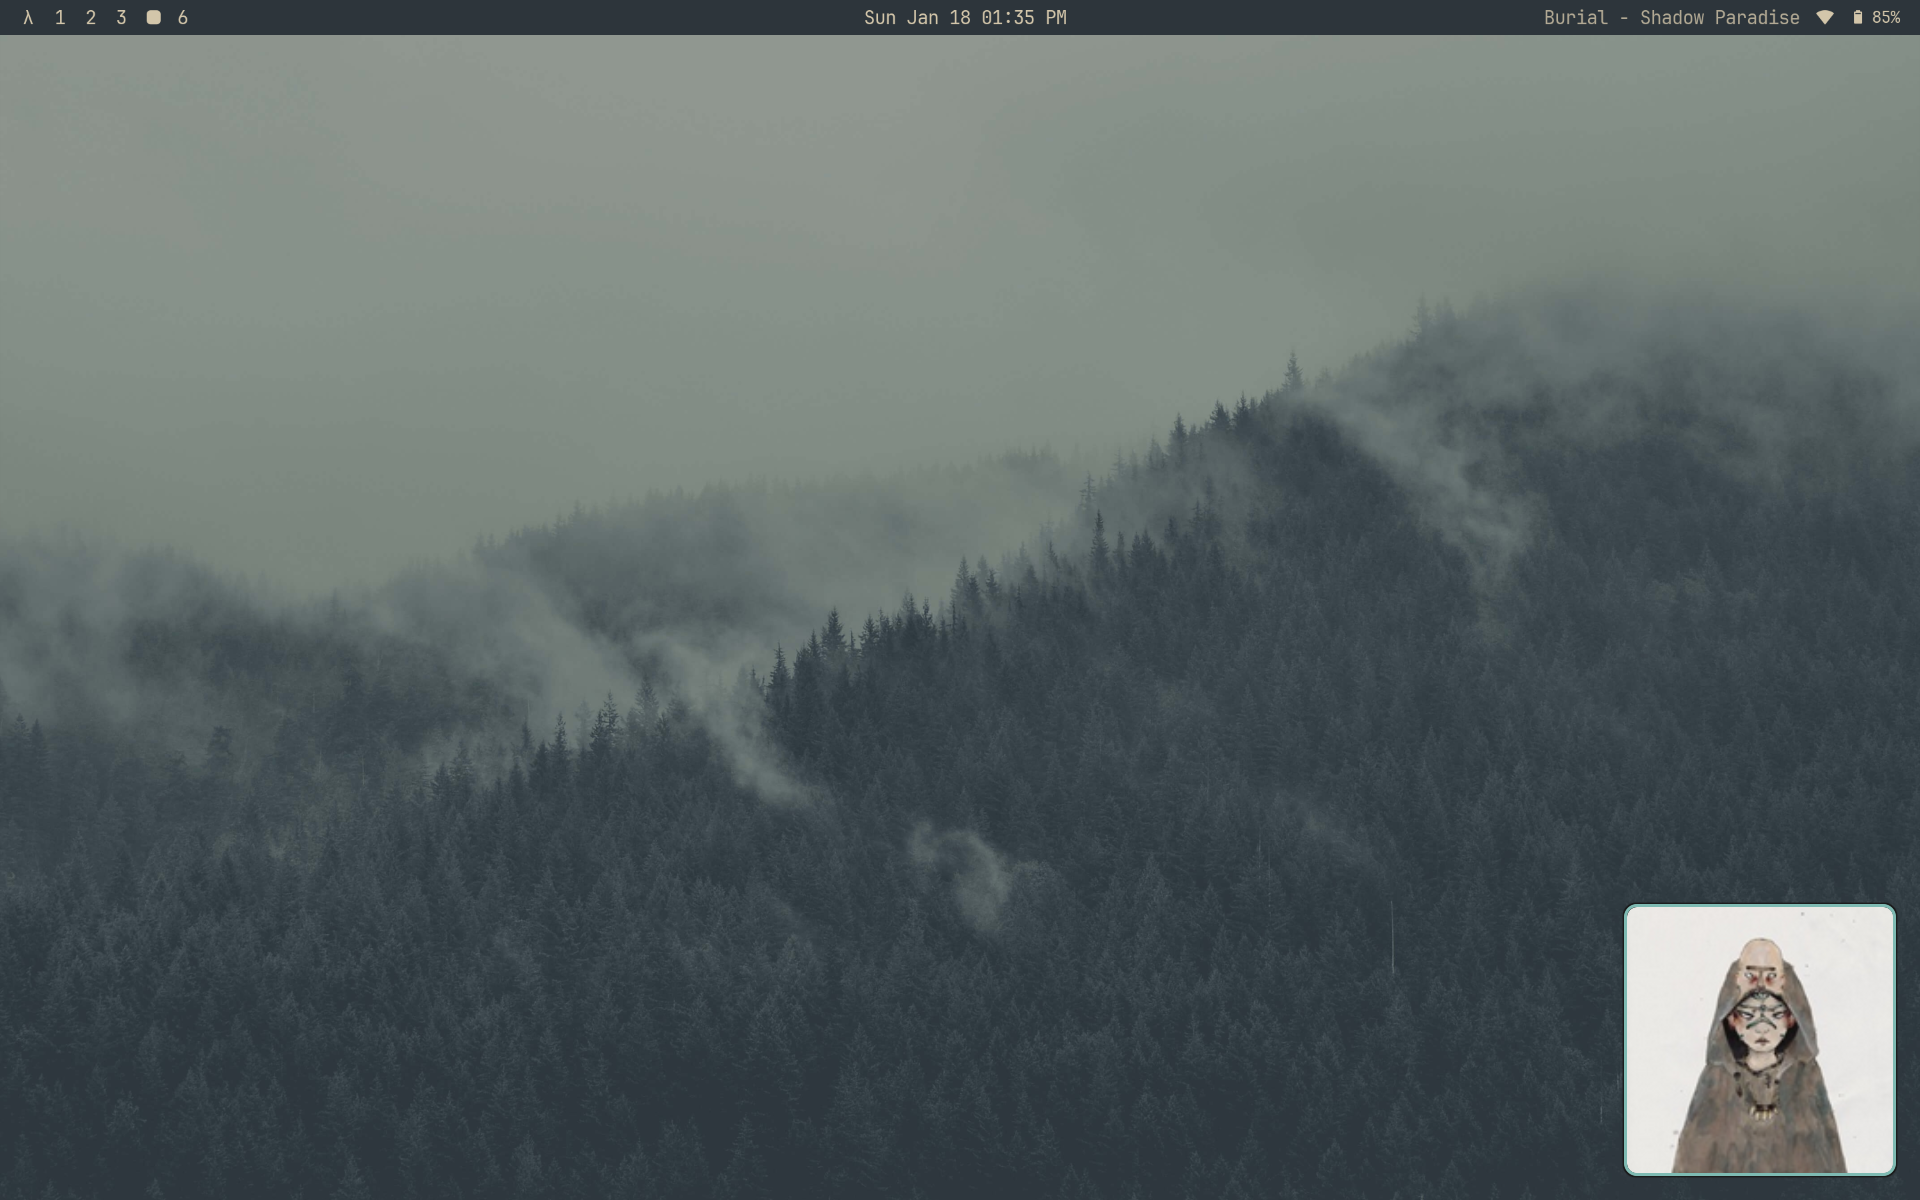
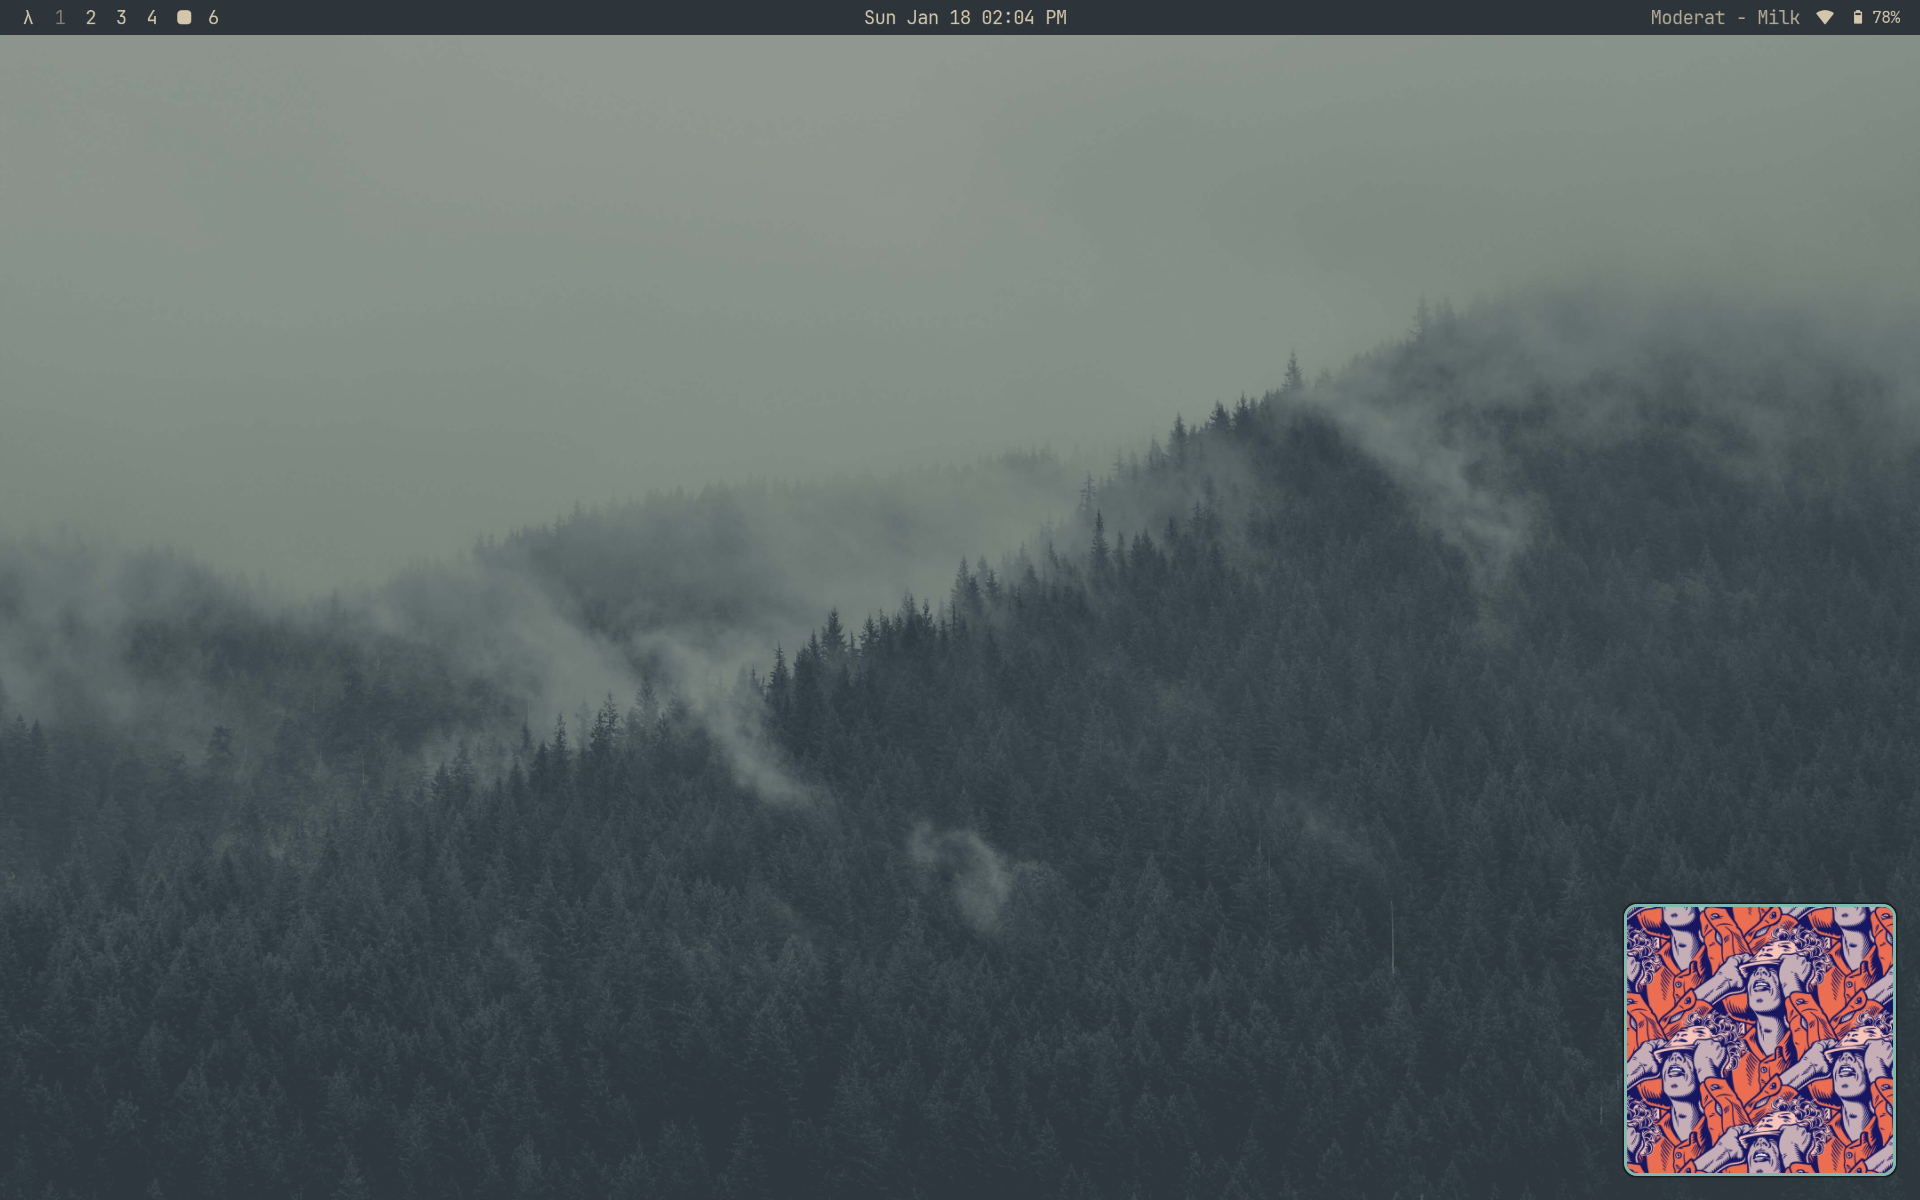
Improve resize anchoring and startup behavior
- Smart corner anchoring: widget stays pinned to nearest corner when resizing
- Query actual window size after resize to handle minimum size constraints
- Hide window during initial positioning to prevent animation across screen
- Swap minimize and size toggle button positions
- Update screenshot

🤖 Generated with [Claude Code](https://claude.com/claude-code)

Changed region(s): [[0.8438, 0.74, 1.0, 0.9867], [0.875, 0.0, 0.9375, 0.0308], [0.8125, 0.0, 0.8438, 0.0308]]

diff --git a/widget/Sleeve.tsx b/widget/Sleeve.tsx
@@ -12,15 +12,15 @@ const SIZE_ORDER: Array<keyof typeof SIZES> = ["small", "medium", "large"]
 const MINI_HEIGHT = 40  // 20% of full size
 const MARQUEE_WIDTH = 26
 
-// Get window position and monitor info to determine anchor corner
-function getAnchorCorner(): { anchorRight: boolean; anchorBottom: boolean } {
+// Get window info including position, size, and which corner to anchor
+function getWindowInfo(): { x: number; y: number; w: number; h: number; anchorRight: boolean; anchorBottom: boolean } | null {
   try {
     // Get window info
     const [, windowOut] = GLib.spawn_command_line_sync("hyprctl clients -j")
     const clients = JSON.parse(new TextDecoder().decode(windowOut))
     const sleeve = clients.find((c: any) => c.class === "io.Astal.sleeve")
 
-    if (!sleeve) return { anchorRight: true, anchorBottom: true }
+    if (!sleeve) return null
 
     const [winX, winY] = sleeve.at
     const [winW, winH] = sleeve.size
@@ -42,25 +42,33 @@ function getAnchorCorner(): { anchorRight: boolean; anchorBottom: boolean } {
     const monCenterY = monitor.height / 2
 
     return {
+      x: winX,
+      y: winY,
+      w: winW,
+      h: winH,
       anchorRight: winCenterX > monCenterX,
       anchorBottom: winCenterY > monCenterY
     }
   } catch {
-    // Default to bottom-right if detection fails
-    return { anchorRight: true, anchorBottom: true }
+    return null
   }
 }
 
-// Calculate move offset to keep anchor corner in place after Hyprland's centered resize
-function getAnchorMove(sizeDiff: number, anchor: { anchorRight: boolean; anchorBottom: boolean }): { x: number; y: number } {
-  // Hyprland centers resizes, so we need to counter that based on anchor corner
-  // When growing (positive sizeDiff), Hyprland moves window up-left by halfDiff
-  const halfDiff = sizeDiff / 2
+// Calculate target position to keep anchor corner in place after resize
+function calcAnchoredPosition(
+  oldX: number, oldY: number, oldW: number, oldH: number,
+  newW: number, newH: number,
+  anchorRight: boolean, anchorBottom: boolean
+): { x: number; y: number } {
+  // Calculate where anchor corner currently is
+  const anchorX = anchorRight ? oldX + oldW : oldX
+  const anchorY = anchorBottom ? oldY + oldH : oldY
 
-  return {
-    x: anchor.anchorRight ? -halfDiff : halfDiff,
-    y: anchor.anchorBottom ? -halfDiff : halfDiff
-  }
+  // Calculate new position to keep anchor corner in place
+  const newX = anchorRight ? anchorX - newW : anchorX
+  const newY = anchorBottom ? anchorY - newH : anchorY
+
+  return { x: newX, y: newY }
 }
 
 export default function Sleeve(gdkmonitor: Gdk.Monitor) {
@@ -173,14 +181,14 @@ export default function Sleeve(gdkmonitor: Gdk.Monitor) {
       valign={Gtk.Align.FILL}
       orientation={Gtk.Orientation.VERTICAL}
     >
-      {/* Top row with size toggle (left) and minimize (right) */}
+      {/* Top row with minimize (left) and size toggle (right) */}
       <box halign={Gtk.Align.FILL}>
-        <button class="window-btn" onClicked={() => cycleSize()}>
-          <image iconName="view-fullscreen-symbolic" />
-        </button>
-        <box hexpand />
         <button class="window-btn" onClicked={() => toggle()}>
           <image iconName="window-minimize-symbolic" />
+        </button>
+        <box hexpand />
+        <button class="window-btn" onClicked={() => cycleSize()}>
+          <image iconName="view-fullscreen-symbolic" />
         </button>
       </box>
       <box vexpand />
@@ -292,17 +300,17 @@ export default function Sleeve(gdkmonitor: Gdk.Monitor) {
   const cycleSize = () => {
     if (isMinimized) return  // Don't resize while minimized
 
-    // Detect anchor corner before resize
-    const anchor = getAnchorCorner()
+    // Get window info before resize
+    const infoBefore = getWindowInfo()
+    if (!infoBefore) return
 
     const currentIndex = SIZE_ORDER.indexOf(currentSize)
     const nextIndex = (currentIndex + 1) % SIZE_ORDER.length
     const newSizeName = SIZE_ORDER[nextIndex]
-    const oldSize = SIZES[currentSize]
     const newSize = SIZES[newSizeName]
     currentSize = newSizeName
 
-    // Resize container and art
+    // Resize first
     container.set_size_request(newSize, newSize)
     ;(artBox as Gtk.Widget).set_size_request(newSize, newSize)
     hoverOverlay.set_size_request(newSize, newSize)
@@ -310,13 +318,20 @@ export default function Sleeve(gdkmonitor: Gdk.Monitor) {
     miniContent.set_size_request(newSize, MINI_HEIGHT)
     miniHoverOverlay.set_size_request(newSize, MINI_HEIGHT)
 
-    // Calculate move to keep anchor corner in place
-    const sizeDiff = newSize - oldSize
-    const move = getAnchorMove(sizeDiff, anchor)
+    // After delay, get actual size and calculate correct position
+    GLib.timeout_add(GLib.PRIORITY_DEFAULT, 100, () => {
+      const infoAfter = getWindowInfo()
+      if (!infoAfter) return false
 
-    GLib.timeout_add(GLib.PRIORITY_DEFAULT, 50, () => {
+      // Use actual size after resize (in case of minimum size constraints)
+      const target = calcAnchoredPosition(
+        infoBefore.x, infoBefore.y, infoBefore.w, infoBefore.h,
+        infoAfter.w, infoAfter.h,
+        infoBefore.anchorRight, infoBefore.anchorBottom
+      )
+
       GLib.spawn_command_line_async(
-        `hyprctl dispatch movewindowpixel ${move.x} ${move.y},class:io.Astal.sleeve`
+        `hyprctl dispatch movewindowpixel exact ${target.x} ${target.y},class:io.Astal.sleeve`
       )
       return false
     })
@@ -324,15 +339,15 @@ export default function Sleeve(gdkmonitor: Gdk.Monitor) {
 
   // Toggle function
   const toggle = () => {
-    // Detect anchor corner before resize
-    const anchor = getAnchorCorner()
+    // Get window info before resize
+    const infoBefore = getWindowInfo()
+    if (!infoBefore) return
 
     isMinimized = !isMinimized
     const artSize = getArtSize()
     const newHeight = isMinimized ? MINI_HEIGHT : artSize
-    const heightDiff = artSize - MINI_HEIGHT
 
-    // Resize container and art
+    // Resize first
     container.set_size_request(artSize, newHeight)
     ;(artBox as Gtk.Widget).set_size_request(artSize, newHeight)
 
@@ -351,16 +366,20 @@ export default function Sleeve(gdkmonitor: Gdk.Monitor) {
     miniContent.set_visible(isMinimized)
     miniHoverOverlay.set_visible(isMinimized)
 
-    // Calculate vertical move to keep anchor edge in place
-    // When minimizing: height shrinks, so sizeDiff is negative
-    // When maximizing: height grows, so sizeDiff is positive
-    const sizeDiff = isMinimized ? -heightDiff : heightDiff
-    const halfDiff = sizeDiff / 2
-    const moveY = anchor.anchorBottom ? -halfDiff : halfDiff
+    // After delay, get actual size and calculate correct position
+    GLib.timeout_add(GLib.PRIORITY_DEFAULT, 100, () => {
+      const infoAfter = getWindowInfo()
+      if (!infoAfter) return false
 
-    GLib.timeout_add(GLib.PRIORITY_DEFAULT, 50, () => {
+      // Use actual size after resize (in case of minimum size constraints)
+      const target = calcAnchoredPosition(
+        infoBefore.x, infoBefore.y, infoBefore.w, infoBefore.h,
+        infoAfter.w, infoAfter.h,
+        infoBefore.anchorRight, infoBefore.anchorBottom
+      )
+
       GLib.spawn_command_line_async(
-        `hyprctl dispatch movewindowpixel 0 ${moveY},class:io.Astal.sleeve`
+        `hyprctl dispatch movewindowpixel exact ${target.x} ${target.y},class:io.Astal.sleeve`
       )
       return false
     })
